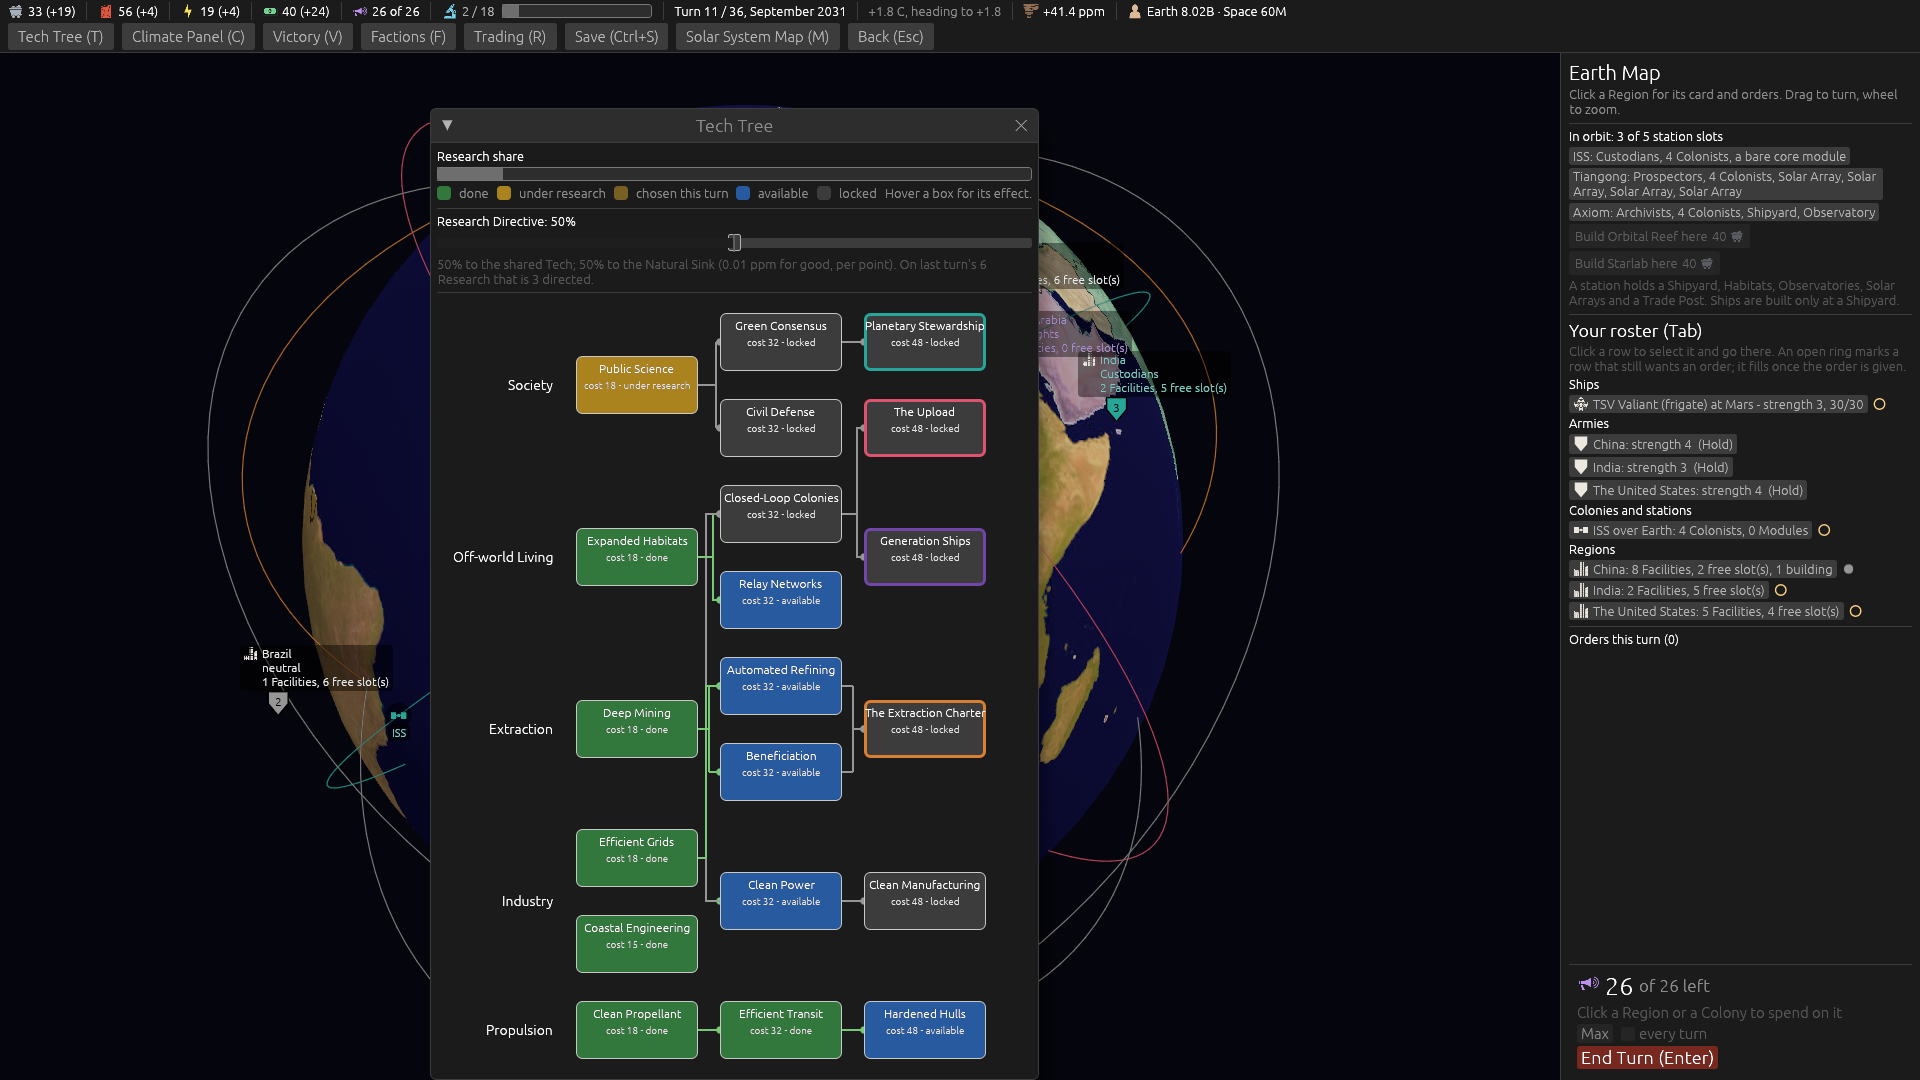
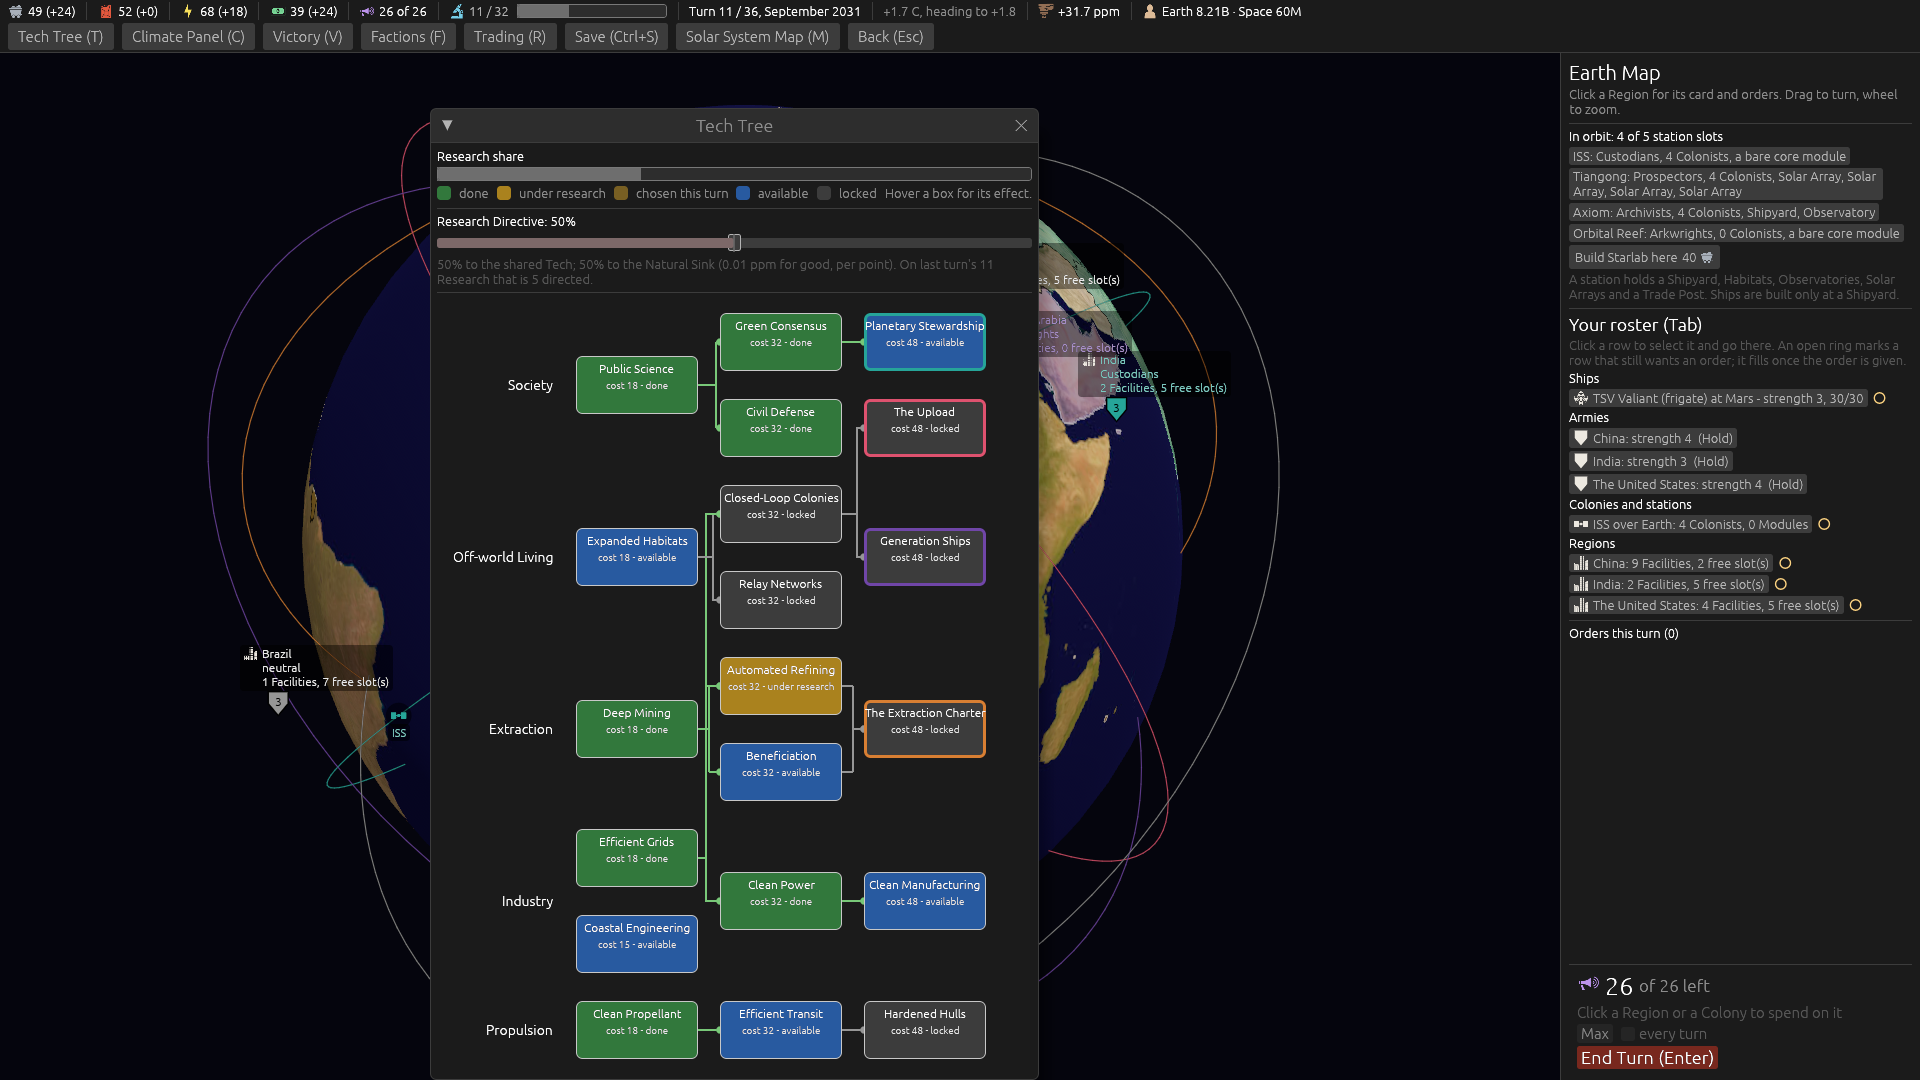
The blocked half of the slider wears the colour of nobody's (ticket #251)
"I don't like the dark grey can we do something closer to the grey for
the neutral research contrabution but redened a smige".

A dark grey read as a hole in the control rather than a bound on it.
What ships is the grey this game already uses for NOBODY'S --
from_gray(110), the unattributed segment of the race bar a few lines
above in the same file, the colour an unheld Region wears -- leaned a
little red, so the region says "not yours to take" rather than "nothing
here".

That is the fourth colour on this one rectangle: a translucent black
that vanished against a dark rail, a grey too close to the rail's own, a
diagnostic red that proved the geometry had been right the whole time,
and a dark grey that was visible but said the wrong thing. Only the last
of those was a design question rather than a defect, and none of the
four could have been told apart from a diff.

304 passed; 0 failed, 6 passed; 0 failed, clippy clean with the denial.

diff --git a/src/ui.rs b/src/ui.rs
@@ -5891,14 +5891,19 @@ fn research_directive_control(ui: &mut Ui, session: &Session, game: &Game, actio
     if floor > 0 {
         // The share no Faction but the Archivists may reach, painted OVER the rail so the scale
         // still reads 0 to 100 for everyone and their extra reach is visible rather than implied.
-        // It is opaque rather than a dim wash: a translucent black over an already dark rail was
-        // invisible in the first capture, which is the sort of thing only a picture tells you.
+        // The colour took three goes and only a picture could settle it. A translucent black over
+        // an already dark rail was invisible, and so was a grey close to the rail's own; a
+        // diagnostic pass in bright red proved the geometry had been right all along, so the fault
+        // was never the rectangle. A dark grey read as a hole in the control rather than a bound,
+        // so at the designer's word it is now the grey this game already uses for NOBODY'S --
+        // `from_gray(110)`, the unattributed segment of the race bar a few lines above -- leaned a
+        // little red to say "not yours to take" rather than "nothing here".
         let r = resp.rect;
         let dim = egui::Rect::from_min_max(
             egui::pos2(r.min.x, r.center().y - ui.spacing().slider_rail_height * 0.6),
             egui::pos2(r.min.x + r.width() * floor as f32 / 100.0, r.center().y + ui.spacing().slider_rail_height * 0.6),
         );
-        ui.painter().rect_filled(dim, 2.0, Color32::from_gray(30));
+        ui.painter().rect_filled(dim, 2.0, Color32::from_rgb(124, 104, 104));
         ui.painter().line_segment(
             [egui::pos2(dim.max.x, r.center().y - 9.0), egui::pos2(dim.max.x, r.center().y + 9.0)],
             egui::Stroke::new(1.5, Color32::from_gray(120)),

diff --git a/docs/dev-diary/2026-09-18-version-0.08.3/ticket-235-directive/README.md b/docs/dev-diary/2026-09-18-version-0.08.3/ticket-235-directive/README.md
@@ -98,8 +98,12 @@ at half with the unreachable part dimmed behind the rail.
 **Two goes at the dimming, and the picture is why.** A translucent black over an already dark rail
 was invisible in the first capture, and so was a grey close to the rail's own. A diagnostic pass in
 bright red proved the geometry was right all along — the overlay sat exactly across the left half,
-ending at the handle — so the fault was only the colour. It is `gray(30)` now, plainly darker than
-the rail. Nothing but looking at it would have told me which of the two possible faults it was.
+ending at the handle — so the fault was only the colour. Nothing but looking at it would have told me which of the two possible faults it was.
+
+A dark grey was the third attempt and the designer rejected that too: it read as a **hole in the
+control** rather than a bound on it. What ships is the grey this game already uses for **nobody's**
+-- `from_gray(110)`, the unattributed segment of the race bar a few lines above in the same file --
+leaned a little red, so the region says *not yours to take* rather than *nothing here*.
 
 "20% larger" needed **both** `slider_width` and `slider_rail_height`: raising only the first makes
 a long thin bar rather than a bigger control.
